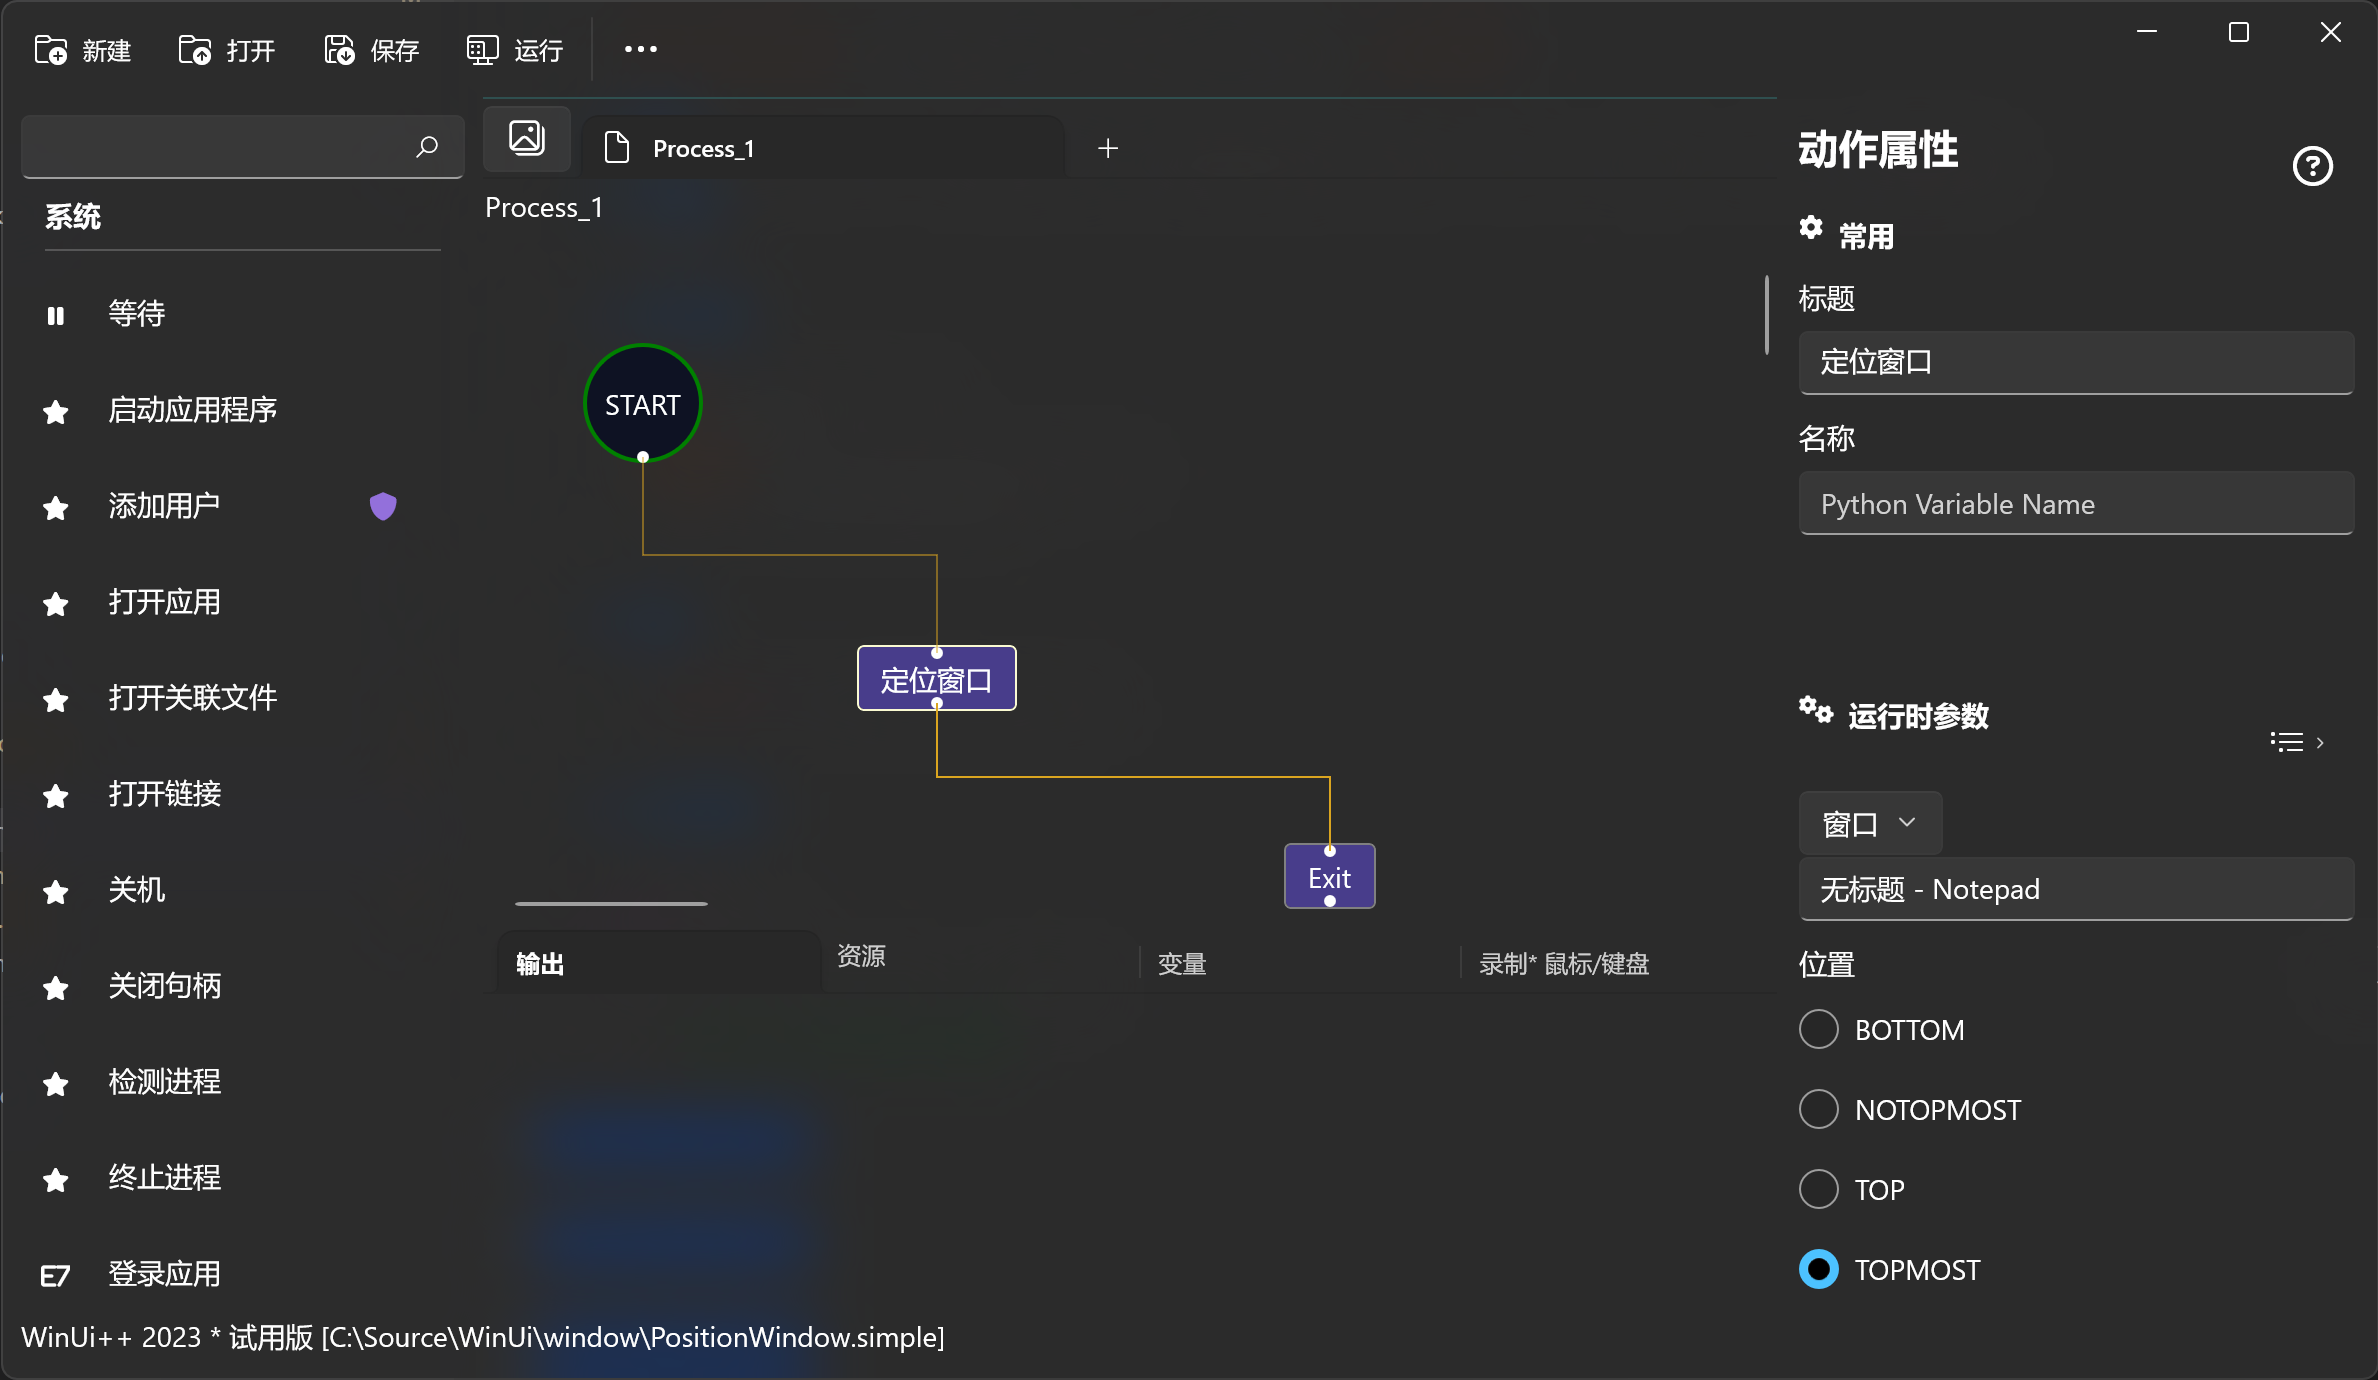
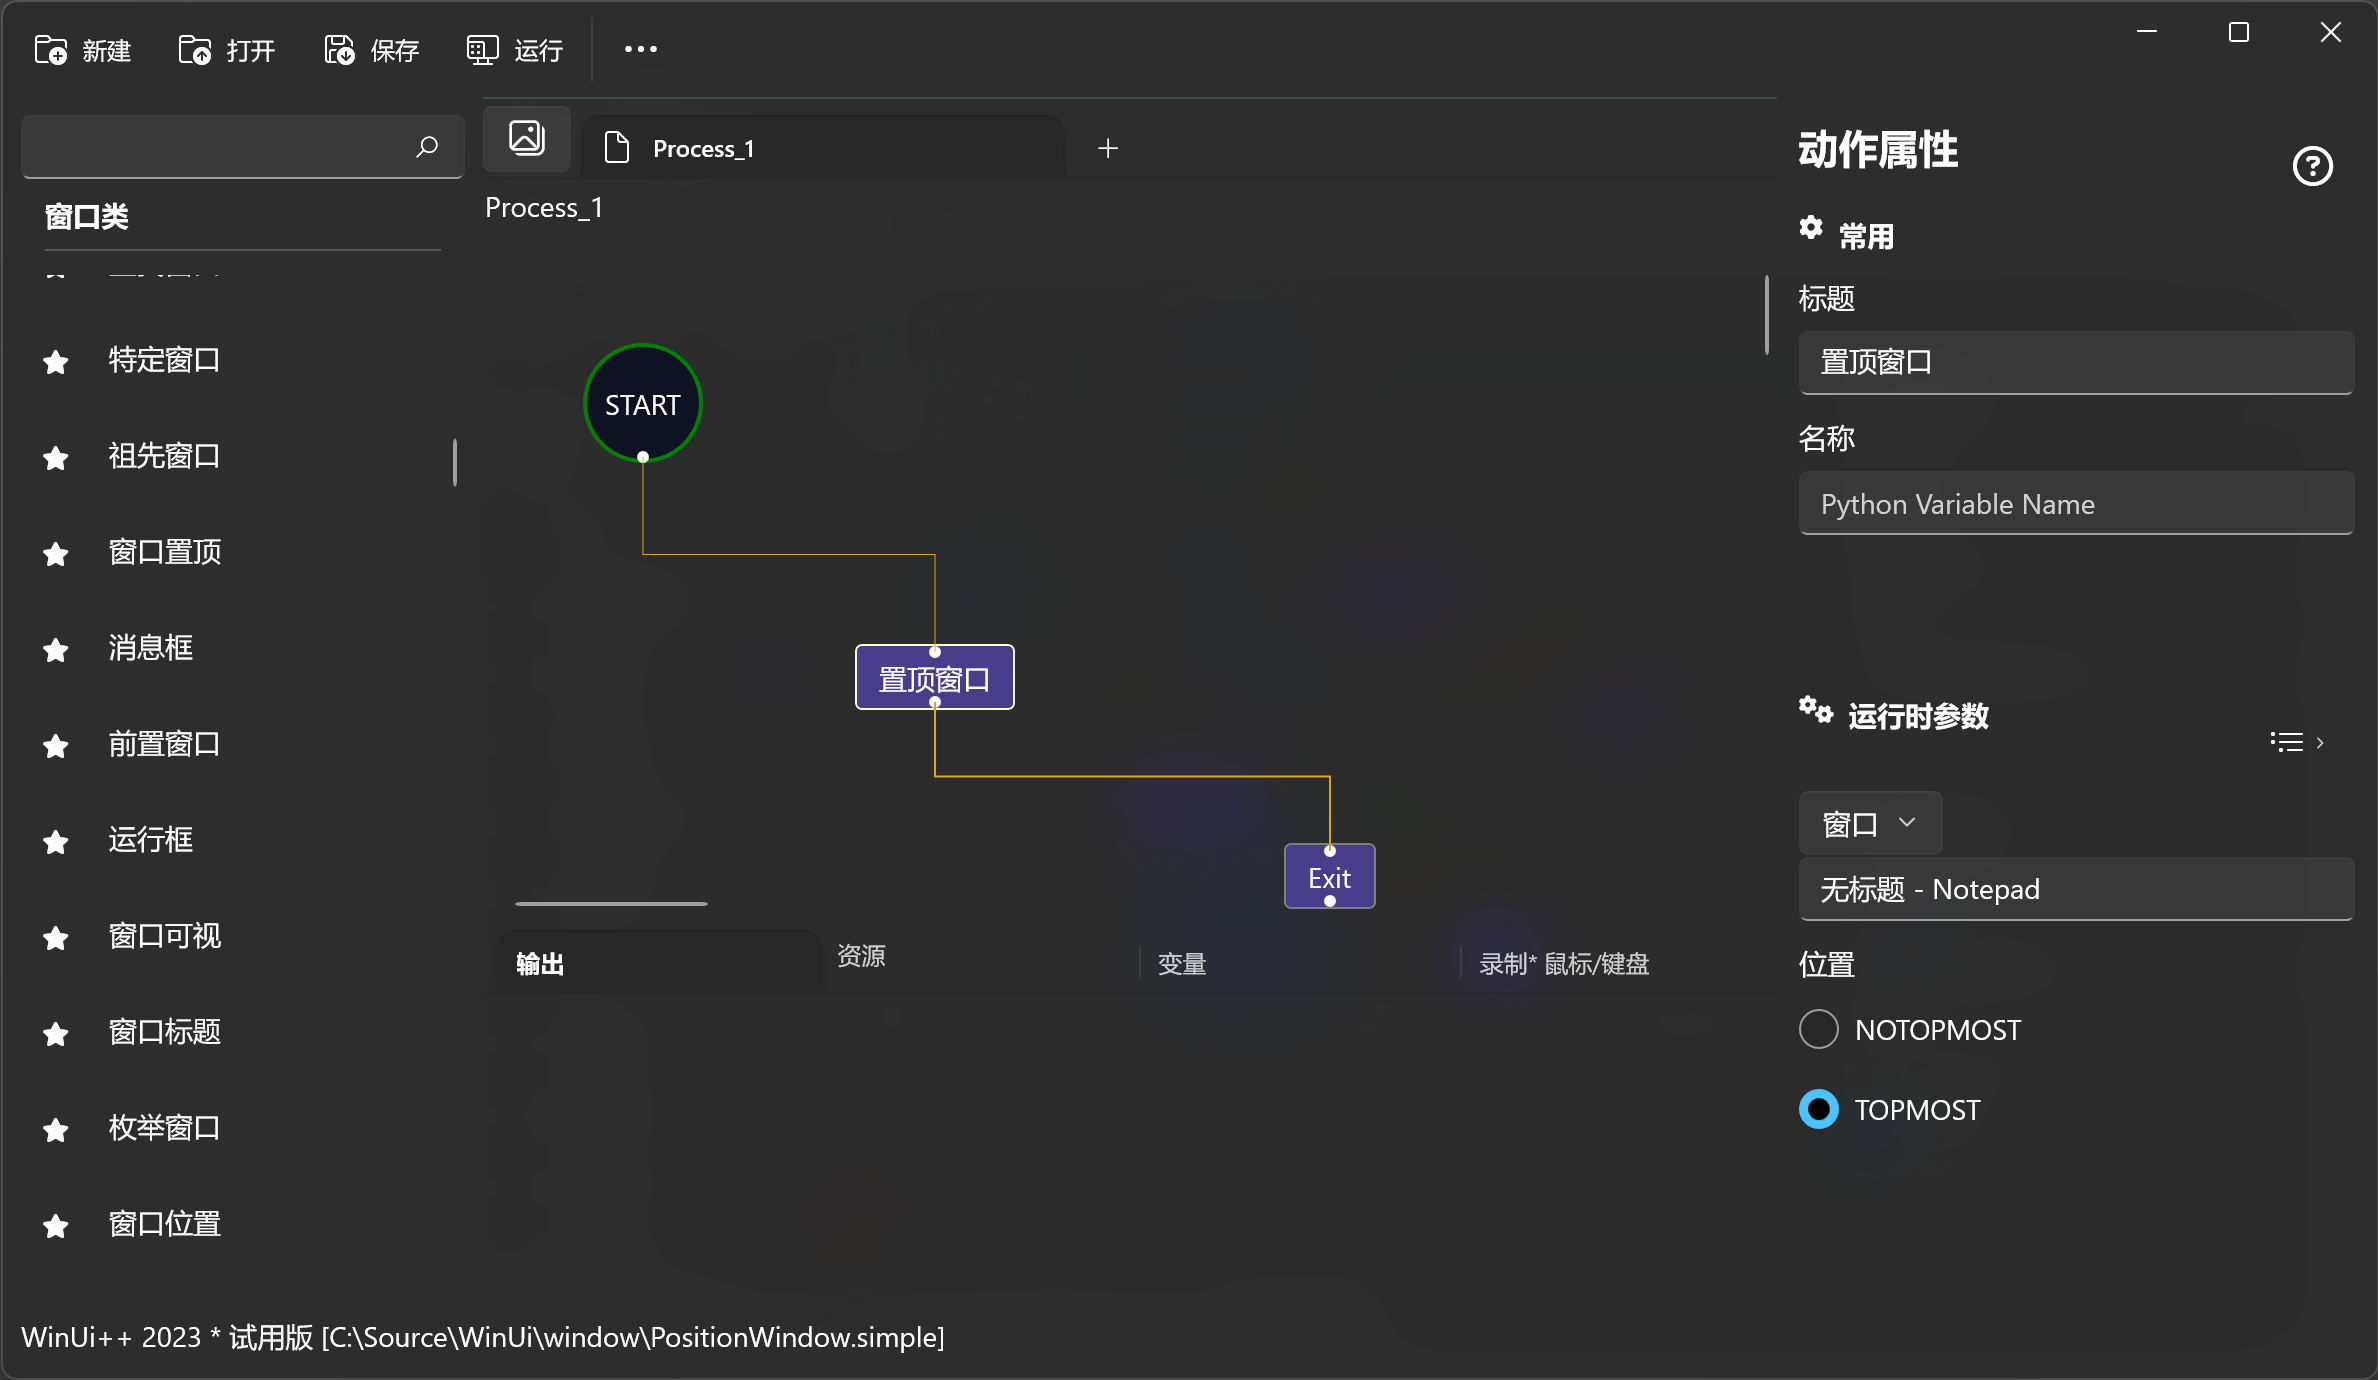
update

diff --git a/docx/actions/window/PositionWindow.md b/docx/actions/window/PositionWindow.md
@@ -1,10 +1,10 @@
-# 定位窗口 
-更改子窗口、弹出窗口或顶级窗口的位置。
+# 窗口置顶 
+更改子窗口、弹出窗口或顶级窗口为顶层窗口或者非顶层窗口。
 
 ![PositionWindow](./images/07.png ':size=90%')
 
 ## 权限
-> 无要求, 但是对于*UWP* 应用程序来说，它不符合 *Win32* 应用程序的窗口规则（据微软官方消息：操作系统中没有任何 *API* 可以操作 *UWP*应用程序的窗口），因此该动作无效。例如：*Win11* 的记事本程序。
+> 无要求, 但是对于*UWP* 应用程序来说，它不符合 *Win32* 应用程序的窗口规则（据微软官方消息：操作系统中没有任何 *API* 可以使 *UWP*应用程序的窗口置顶），因此该动作无效。例如：*Win11* 的记事本程序。
 ## 子流程
 > 不支持
 
@@ -12,7 +12,7 @@
 
 * [窗口](./types/Wnd.md)
   > 要设置的窗口
-* [定位方式](./enums/WindowHandle.md)
+* [方式](./enums/WindowHandle.md)
   > 位置，比如设置为最顶层窗口，
 
 

diff --git a/docx/CHANGELOG.md b/docx/CHANGELOG.md
@@ -5,10 +5,9 @@
 3. 修复动作 *DragPointer*（拖动） 问题
 4. 修复添加空变量崩溃问题。
 5. 修复鼠标键盘录制闪退问题。
-6. 重命名 *WindowCapture* 为 *CaptureWindow*。
-7. 重命名 *SetForegroundWindow* 为 *ForegroundWindow*。
-8. 移除动作 *SendKeyMessage*，增加 *AncestorWindow* 祖先窗口动作
-9. 移除动作 *SendMouseClick*，增加 *PositionWindow* 定位窗口动作
+6. 修复某些条件下，启动 *WinUi++* 界面无响应问题
+7. 修复禁用动作不工作的问题
+
 
 ## [0.26](https://github.com/shelllet/winui/compare/main...dev) (2023-08-15)
 ### Changed：

diff --git a/docx/actions/window/WindowCaption.md b/docx/actions/window/WindowCaption.md
@@ -1,7 +1,7 @@
 # 窗口标题 
-获取或者设置窗口标题
+获取或者设置窗口的标题
 
-![WindowCaption](./images/09.png ':size=90%')
+![WindowCaption](./images/11.png ':size=90%')
 
 ## 子流程
 > 不支持
@@ -12,7 +12,7 @@
 * [window](./types/Wnd.md)
   > 窗口
 * [caption](./types/String.md)
-  > 窗口标题，如果为空（不是空字符串），则获取窗口标题，
+  > 窗口标题，如果为空（不是空字符串），则获取窗口标题，否则设置窗口标题
 
 
 ## 输出

diff --git a/docx/_sidebar.md b/docx/_sidebar.md
@@ -64,7 +64,7 @@
       - [消息框](./actions/window/MessageBox.md)
       - [前置窗口](./actions/window/ForegroundWindow.md)
       - [祖先窗口](./actions/window/WindowAncestor.md)
-      - [定位窗口](./actions/window/PositionWindow.md)
+      - [窗口置顶](./actions/window/PositionWindow.md)
       - [运行框](./actions/window/WinRun.md)
       - [窗口可视](./actions/window/WindowVisible.md)
       - [枚举窗口](./actions/window/EnumWindows.md)

diff --git a/docx/actions/window/WindowXy.md b/docx/actions/window/WindowXy.md
@@ -1,5 +1,5 @@
 # 窗口位置
-获取或设置指定窗口的位置，该位置相对于屏幕坐标左上角的屏幕坐标给出。
+获取或设置指定窗口的位置，该位置是相对于屏幕的左上角（屏幕坐标系）给出。
 
 ![WindowXy](./images/12.png ':size=90%')
 

diff --git a/docx/actions/window/WinRun.md b/docx/actions/window/WinRun.md
@@ -1,5 +1,5 @@
 # 运行对话框 
-打开操作系统中的 *运行* 对话框
+打开操作系统中的 *运行* 对话框, 可以使用快捷键打开此窗口: Windows + R。
 
 ![WinRun](./images/08.png ':size=90%')
 
